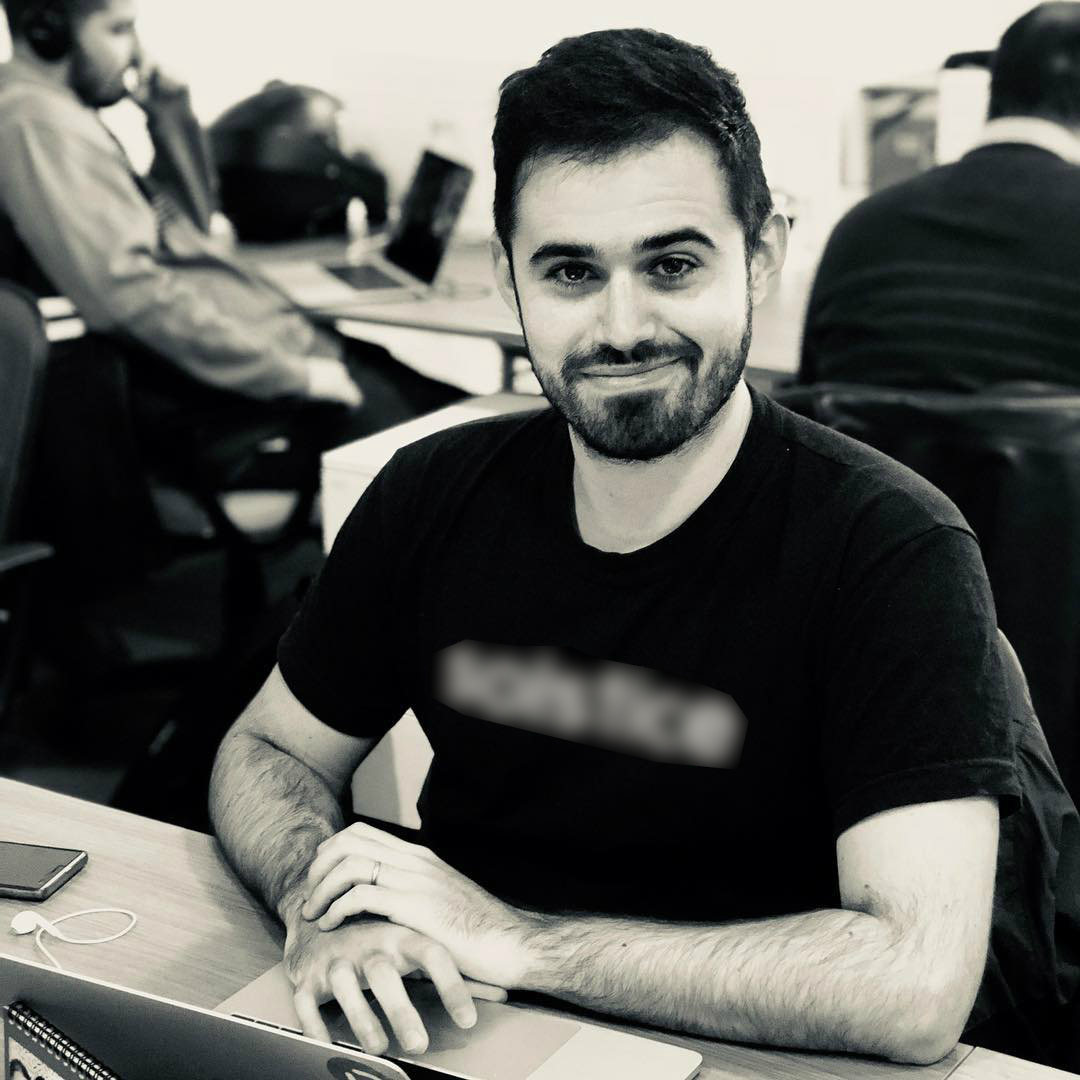
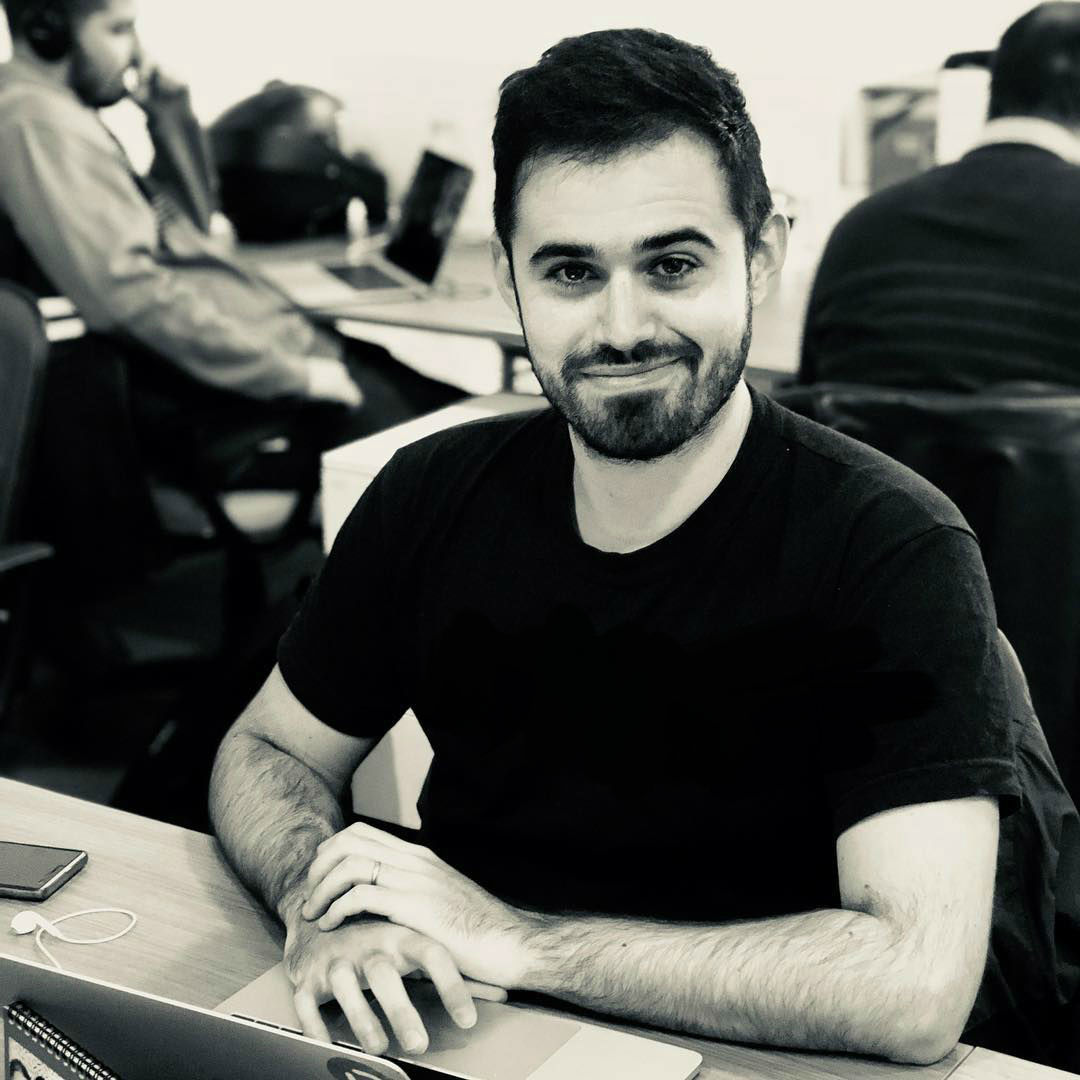
Added chest animation

Changed region(s): [[0.3972, 0.5806, 0.7028, 0.7333]]

diff --git a/index.html b/index.html
@@ -69,7 +69,7 @@
           <div class="profile" data-aos="fade-left" data-aos-delay="100">
                <h2>About Me</h2>
                <p class="subtitle">Passionate & Ambitious</p>
-               <p class="description" data-aos="fade" data-aos-delay="200">I'm a versatile person since I can be very sensitive and connect with people and I also can be very determined and confident to make decisions without hesitating. I love technology more than I loved my last girlfriend (that sounds a bit nerd).</p>
+               <p class="description" data-aos="fade" data-aos-delay="200">I'm a versatile person since I can be very sensitive and connect with people and I also can be very determined and confident to make decisions without hesitating. Since my first experience with a computer (</p>
           </div>
           <div class="skills" data-aos="fade-right" data-aos-delay="100">
                <h2>Skills</h2>
@@ -230,7 +230,7 @@
      </section>
      <section id="testimonial">
         <h2 data-aos="fade-right" data-aos-delay="100">Testimonial</h2>
-        <div id="testimonialCarousel" class="carousel slide" data-ride="carousel" data-aos="fade-left" data-aos-delay="200">
+        <div id="testimonialCarousel" class="carousel slide" data-ride="carousel">
             <ol class="carousel-indicators">
               <li data-target="#testimonialCarousel" data-slide-to="0" class="active"></li>
               <li data-target="#testimonialCarousel" data-slide-to="1"></li>

diff --git a/css/styles.css b/css/styles.css
@@ -1,3 +1,9 @@
+@keyframes chest-color {
+    0% {background-color: #003958;}
+    50% {background-color: #41a6de;}
+    100% {background-color: #003958;}
+  }
+
 body {
     margin: 0px;
     font-family: 'Source Sans Pro', sans-serif;
@@ -103,8 +109,11 @@ nav .tabs .nav-link.active {
     outline: none;
 }
 #home .image {
-    background-image: url("../images/home_image.jpg");
+    background-image: url("../images/home_image_2.png");
     background-size: cover;
+    background-color: #003958;
+    -webkit-animation: chest-color; /* Safari 4.0 - 8.0 */
+    animation: chest-color 4s infinite;
 }
 
 #profile-skills-container {
@@ -352,6 +361,7 @@ nav .tabs .nav-link.active {
 }
 #footer {
     width: 100%;
+    padding: 8px 0px 8px 0px;
     background-color: #222c35;
     display: flex;
     justify-content: center;
